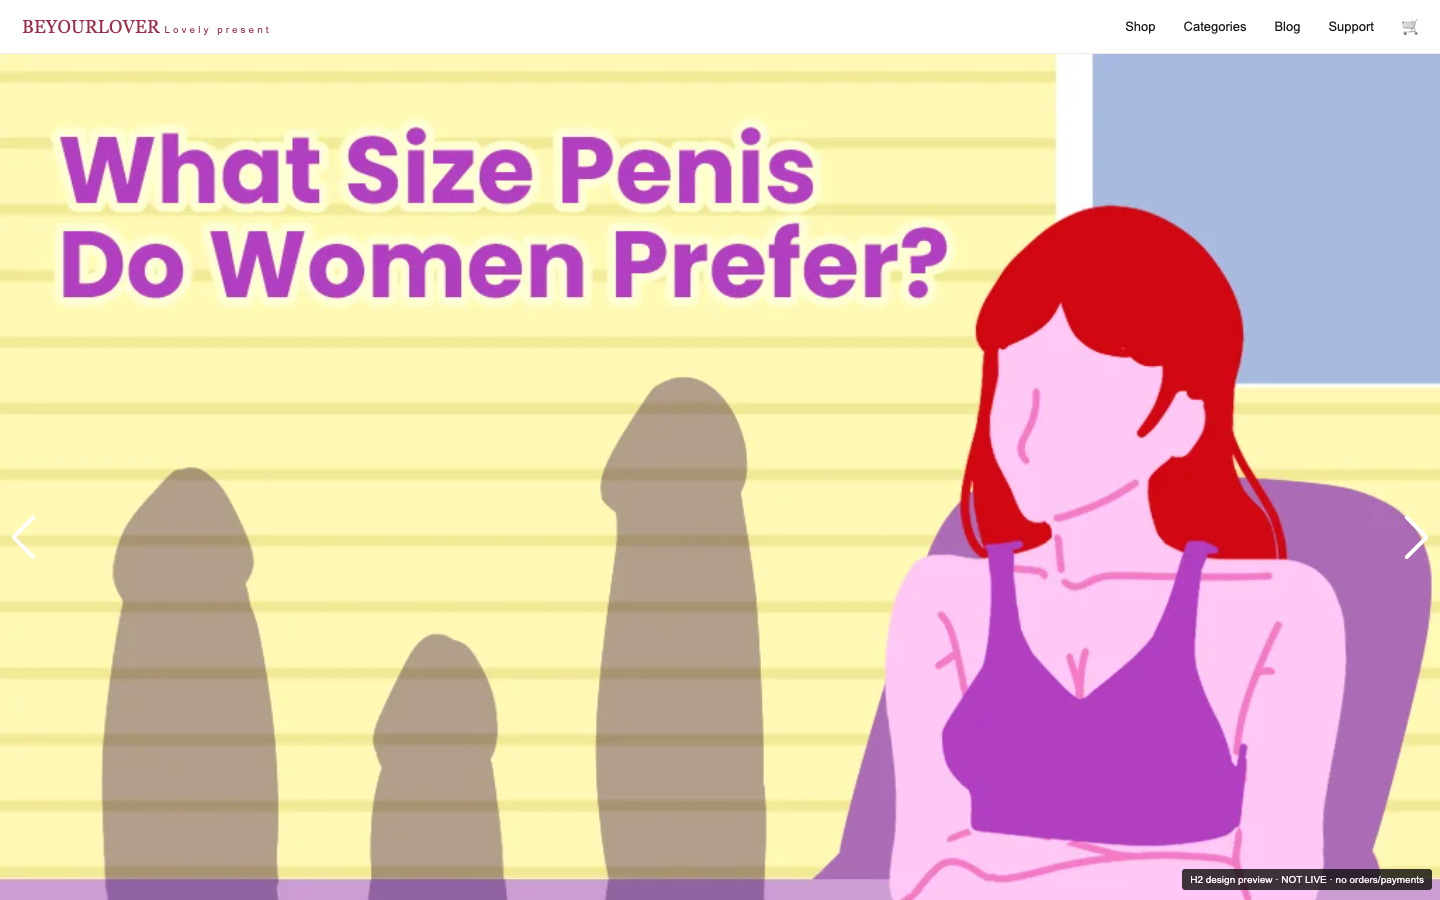
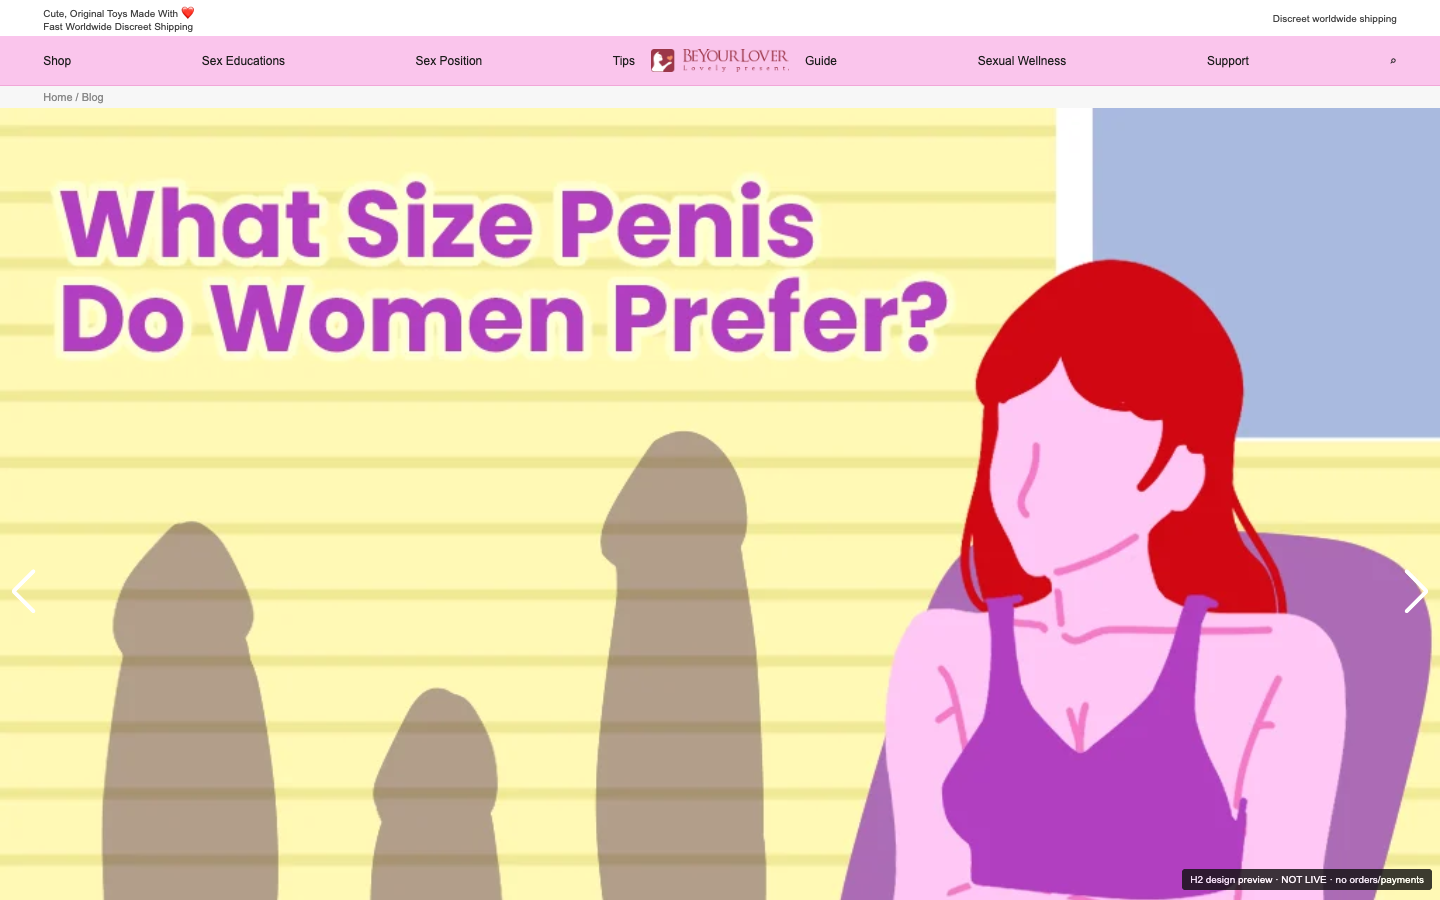
docs(blog): refine H2 header to original WWW pink navigation

diff --git a/docs/ux/blog-www-parity-v1/H2-20261013/H2-www-blog-preserve-preview.html b/docs/ux/blog-www-parity-v1/H2-20261013/H2-www-blog-preserve-preview.html
@@ -1,18 +1,46 @@
 <!doctype html><html lang="en"><head><meta charset="utf-8"><title>BYL Blog WWW Parity — H2 Review Only</title><meta name="viewport" content="width=device-width,initial-scale=1">
 <style>
 *{box-sizing:border-box}html,body{padding:0;margin:0;font-family:Arial,Helvetica,sans-serif;background:#fff;color:#151515}
-.byl-preview-top{position:relative;z-index:20;background:#fff;border-bottom:1px solid #eee;height:54px;display:flex;align-items:center;justify-content:space-between;padding:0 22px}
-.byl-preview-brand{font-family:Georgia,serif;color:#9d2e49;font-size:18px;letter-spacing:.015em}
-.byl-preview-nav{font-size:13px;display:flex;gap:28px;align-items:center}
+
+/* H2 reference header: preserve WWW's small announcement + pink blog nav,
+   while keeping eventual runtime ownership inside BYL Theme V3. */
+.byl-preview-announcement{min-height:24px;display:flex;align-items:center;justify-content:space-between;
+  font-size:10px;background:#fff;color:#444;padding:4px max(14px,3vw);gap:12px}
+.byl-preview-top{position:relative;z-index:20;background:#fac5ec;border-bottom:1px solid #f1a7d8;
+  min-height:50px;display:flex;align-items:center;justify-content:space-between;padding:0 3vw;gap:16px}
+.byl-preview-brand{display:flex;align-items:center;gap:7px;font-family:Georgia,serif;color:#a12f4c;font-size:18px;white-space:nowrap}
+.byl-preview-brand img{max-width:138px;width:138px;height:auto;display:block}
+.byl-preview-nav{font-size:12px;display:flex;align-items:center;gap:24px;justify-content:space-between;flex:1}
+.byl-preview-nav a{text-decoration:none;color:#1c1c1c}
+.byl-preview-mobile-icon{display:none;color:#1d1d1d;font-size:21px;line-height:1}
+.byl-preview-crumbs{background:#f7f7f7;color:#888;padding:5px 3vw;font-size:11px}
 .byl-preview-stamp{position:fixed;z-index:1000;right:8px;bottom:10px;padding:5px 8px;background:#111;color:#fff;font-size:10px;border-radius:3px;opacity:.82}
 .byl-preview-end{background:#f6f5f6;padding:42px 18px;color:#333;text-align:center}
-.byl-preview-end h2{font-size:25px;margin:0 0 14px}.byl-preview-end p{max-width:800px;margin:0 auto 20px;line-height:1.65}
+.byl-preview-end h2{font-size:25px;margin:0 0 14px}
+.byl-preview-end p{max-width:800px;margin:0 auto 20px;line-height:1.65}
 .byl-preview-end a{color:#9d2e49}
+@media(max-width:767px){
+ .byl-preview-announcement{min-height:33px;justify-content:center;text-align:center;font-size:9px;max-height:33px}
+ .byl-preview-announcement span:last-child{display:none}
+ .byl-preview-top{height:33px;min-height:33px;padding:0 13px}
+ .byl-preview-brand img{width:104px}
+ .byl-preview-nav{display:none}
+ .byl-preview-mobile-icon{display:block}
+ .byl-preview-crumbs{display:none}
+}
 .blog-banner,.blog-categories,.blog-cat-module{max-width:100%;overflow:hidden}
 @media(max-width:767px){.byl-preview-top{height:50px;padding:0 14px}.byl-preview-brand{font-size:15px}.byl-preview-nav{gap:18px;font-size:12px}.byl-preview-nav a:not(:last-child){display:none}}
 </style>
 </head><body>
-<header class="byl-preview-top"><div class="byl-preview-brand">BEYOURLOVER <span style="font-family:Arial;font-size:10px;letter-spacing:.3em">Lovely present</span></div><nav class="byl-preview-nav"><a>Shop</a><a>Categories</a><a>Blog</a><a>Support</a><a aria-label="Cart">🛒</a></nav></header>
+<div class="byl-preview-announcement"><span>Cute, Original Toys Made With ❤<br>Fast Worldwide Discreet Shipping</span><span>Discreet worldwide shipping</span></div>
+<header class="byl-preview-top">
+  <span class="byl-preview-mobile-icon" aria-label="Menu">☰</span>
+  <nav class="byl-preview-nav"><a>Shop</a><a>Sex Educations</a><a>Sex Position</a><a>Tips</a></nav>
+  <div class="byl-preview-brand"><img alt="BeYourLover" src="https://img.beyourlover.com/2025/06/21035821/logo-slogan-red-1-scaled-1.webp"></div>
+  <nav class="byl-preview-nav"><a>Guide</a><a>Sexual Wellness</a><a>Support</a><a aria-label="Search">⌕</a></nav>
+  <span class="byl-preview-mobile-icon" aria-label="Search">⌕</span>
+</header>
+<div class="byl-preview-crumbs">Home / Blog</div>
 <main id="blog-parity-h2">
 <link rel="stylesheet" href="https://www.beyourlover.com/css/swiper-bundle.min.css" />
 <script src="https://www.beyourlover.com/js/swiper-bundle.min.js"></script>

diff --git a/docs/ux/blog-www-parity-v1/H2-20261013/README.md b/docs/ux/blog-www-parity-v1/H2-20261013/README.md
@@ -14,7 +14,7 @@ Do not mark Owner UAT PASS without an explicit Owner review of the visual target
 | PC1440 | ![WWW Blog PC1440](www-blog-1440.png) | ![Dev Blog PC1440](dev-blog-1440.png) | ![H2 Concept PC1440](h2-preview-1440.png) |
 
 The visual proof uses **existing public WWW Blog markup and content** sampled
-at capture time, with a simplified V3-compatible top navigation mock. It is not
+at capture time, with a WWW-like announcement bar and pink navigation mock, intended to be implemented using V3 shell components. It is not
 evidence that Dev article inventory and banner assets have already been migrated.
 Preview source: [H2 static prototype](H2-www-blog-preserve-preview.html).
 
